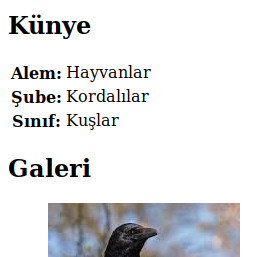
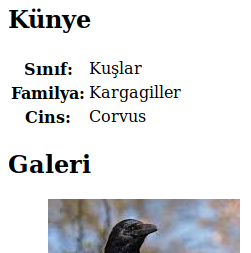
Tabloda th hizalamasını gösterecek şekilde örneği değiştir

diff --git a/source/html.rst b/source/html.rst
@@ -466,16 +466,16 @@
 
             <table>
               <tr>
-                <th>Alem:</th>
-                <td>Hayvanlar</td>
-              </tr>
-              <tr>
-                <th>Şube:</th>
-                <td>Kordalılar</td>
-              </tr>
-              <tr>
                 <th>Sınıf:</th>
                 <td>Kuşlar</td>
+              </tr>
+              <tr>
+                <th>Familya:</th>
+                <td>Kargagiller</td>
+              </tr>
+              <tr>
+                <th>Cins:</th>
+                <td>Corvus</td>
               </tr>
             </table>
 
